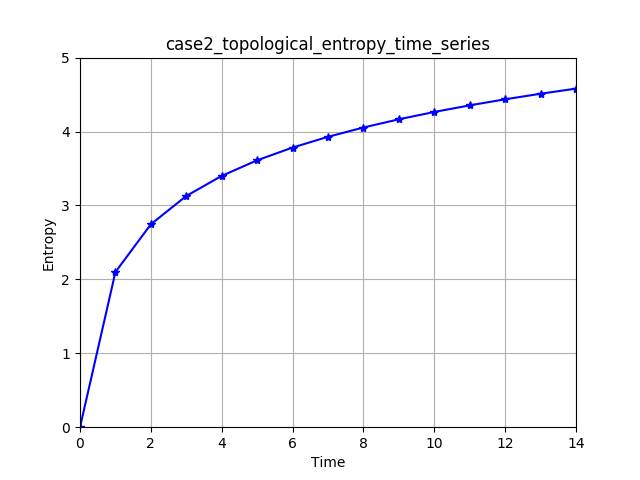
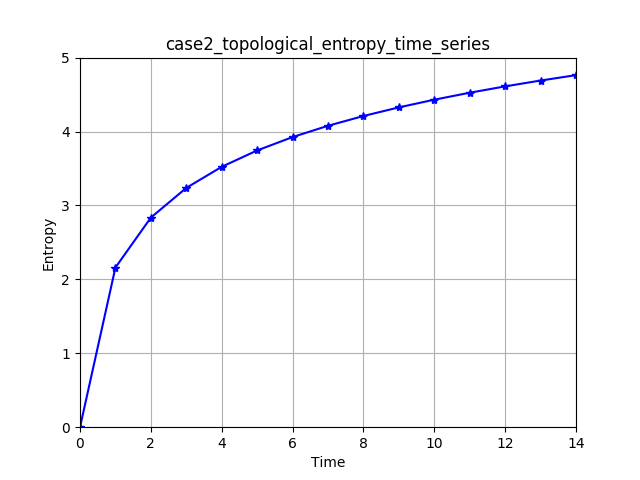
Initial build-out of Case 3

Changed region(s): [[0.2188, 0.1562, 0.9062, 0.5], [0.1562, 0.5, 0.2188, 0.6875], [0.125, 0.7188, 0.1562, 0.8125]]

diff --git a/networks/network_generator.py b/networks/network_generator.py
@@ -17,6 +17,7 @@ pylab.ion()
 '''
                                     TO DO
     - calculate value entropy
+    - determine how to track entropy towards target over time
     - fix "visualize_network_growth" (not pressing right now)
     - build out case 1
     - figure out how to represent binary data_status as outcomes for dit for mutual information, etc.
@@ -63,7 +64,7 @@ class Knowledge_Network(object):
         }
         return out_dict
 
-    def calculate_pagerank(self, alpha = 1.0):
+    def calculate_pagerank(self, alpha = 0.9):
         pagerank = nx.pagerank(self.network, alpha = alpha)
         return pagerank
 
@@ -135,6 +136,11 @@ class Knowledge_Network(object):
         self.get_network(**kwargs)
         plt.savefig('../figures\\{}.png'.format(filename))
 
+    def grow(self):
+        raise NotImplementedError
+
+    def run(self):
+        raise NotImplementedError
 
 class Case_1(Knowledge_Network):
     # This case computes the averages for each varaible, then multiplies them
@@ -142,6 +148,18 @@ class Case_1(Knowledge_Network):
 
     def __init__(self, **kwargs):
         Knowledge_Network.__init__(self, **kwargs)
+
+    def grow(self):
+        pass
+
+    def calculate_non_target_values(self):
+        pass
+
+    def calculate_target_node(self):
+        pass
+
+    def run(self):
+        pass
 
 
 class Case_2(Knowledge_Network):
@@ -182,7 +200,6 @@ class Case_2(Knowledge_Network):
                 val = val*new_val
             self.network.node[n]['val'] = val
             self.network.node[n]['data_status'] = self.calculate_data_status(n)
-            #print self.network.node[n]
 
     def calculate_target_node(self):
         # Calculate the target node (average volume) given the nodes it is connected to in the
@@ -196,9 +213,8 @@ class Case_2(Knowledge_Network):
         val = status_val*val/float(len(pred))
         self.network.node[self.target_node]['val'] = val
         self.network.node[self.target_node]['data_status'] = self.calculate_data_status(self.target_node)
-        #print self.network.node[self.target_node]
 
-    def run(self, T = 14, **kwargs):
+    def run(self, T = 14):
         # Runs the case forwards (building the knowledge network)
         self.build_entropy_time_series(self.topological_entropy_time_series, self.calculate_topological_entropy())
         self.build_entropy_time_series(self.simple_entropy_time_series, self.calculate_simple_entropy())
@@ -214,23 +230,54 @@ class Case_3(Knowledge_Network):
     # This case only imports the volumes associated with each ship, without
     # the associated variable values.
 
-    def __init__(self, **kwargs):
+    def __init__(self, data = {}, **kwargs):
         Knowledge_Network.__init__(self, **kwargs)
+        self.data = data
 
+    def grow(self):
+        # Add the volume node, and associated data, and connect to the target
+        # node (average volume).
+        new_node_label = max(self.network.nodes()) + 1
+        self.network.add_node(new_node_label, **self.add_attributes('V'+str(self.time_step), value = self.data[self.time_step]['V']))
+        self.network.add_edge(new_node_label, 0)
+
+    def calculate_target_node(self):
+        # Calculate the target node (average volume) given the nodes it is connected to in the
+        # knowledge network using their values and data statuses
+        pred = list(self.network.predecessors(self.target_node)) # Find the connected nodes to the target node
+        val = 0.0
+        status_val = 1.0
+        for n in pred:
+            val += self.network.node[n]['val']
+            status_val = status_val*self.network.node[n]['data_status']
+        val = status_val*val/float(len(pred))
+        self.network.node[self.target_node]['val'] = val
+        self.network.node[self.target_node]['data_status'] = self.calculate_data_status(self.target_node)
+
+    def run(self, T=14):
+        # Runs the case forwards (building the knowledge network)
+        self.build_entropy_time_series(self.topological_entropy_time_series, self.calculate_topological_entropy())
+        self.build_entropy_time_series(self.simple_entropy_time_series, self.calculate_simple_entropy())
+        for i in range(1,T+1):
+            self.time_step+=1
+            self.grow()
+            self.calculate_target_node()
+            self.build_entropy_time_series(self.topological_entropy_time_series, self.calculate_topological_entropy())
+            self.build_entropy_time_series(self.simple_entropy_time_series, self.calculate_simple_entropy())
 
 
 
 ###############################################################################
 def main():
 
-    save_images = False # should the images be saved?
+    save_images = True # should the images be saved?
 
     # Import the data
-    data = Case_Data('../data_sources\\case_data.csv')
+    raw_data = Case_Data('../data_sources\\case_data.csv')
 
     ##################### CASE 2 #######################
     # Initialize Case 2
-    case2 = Case_2(data = data)
+    case2 = Case_2(data = raw_data)
 
     # Run Case 2 forwards
     case2.run(T = 14)
@@ -273,6 +320,54 @@ def main():
             arrowsize = 10
         )
 
+    ############################ CASE 3 ###############################
+    # Initialize Case 3
+    case3_data = raw_data.calc_vols()
+
+    case3 = Case_3(data = case3_data)
+
+
+    # Run Case 2 forwards
+    case3.run(T = 14)
+    #print case3.network.nodes(data=True)
+
+    if save_images:
+        # Plot time series and save file in figures directory
+        case3.save_entropy_time_series_plot(
+            case3.topological_entropy_time_series,
+            filename ='case3_topological_entropy_time_series',
+            title = 'case3_topological_entropy_time_series',
+            x_min = 0,
+            x_max = 14,
+            y_min = 0,
+            y_max = 5,
+            grid = True
+        )
+
+        case3.save_entropy_time_series_plot(
+            case3.simple_entropy_time_series,
+            filename ='case3_simple_entropy_time_series',
+            title = 'case3_simple_entropy_time_series',
+            x_min = 0,
+            x_max = 14,
+            y_min = 0,
+            y_max = 5,
+            grid = True
+        )
+
+        # Plot final network layout
+        case3.save_final_network_plot(
+            filename = "case3_final_network",
+            prog = 'twopi',
+            with_labels = True,
+            font_weight = 'normal',
+            font_size = 10,
+            node_size = 120,
+            node_color = 'blue',
+            alpha = 0.6,
+            arrowstyle = '->',
+            arrowsize = 10
+        )
 
 
 if __name__ == '__main__':

diff --git a/data_sources/data_interpreter.py b/data_sources/data_interpreter.py
@@ -18,11 +18,11 @@ class Case_Data(object):
                 if line_count == 0:
                     line_count += 1
                 data[line_count] = {
-                "Ship": str(row["Oceanograpic Ships"]),
-                "L": float(row["L"]),
-                "B": float(row["B"]),
-                "T": float(row["T"]),
-                "Cb": float(row["Cb"])
+                    "Ship": str(row["Oceanograpic Ships"]),
+                    "L": float(row["L"]),
+                    "B": float(row["B"]),
+                    "T": float(row["T"]),
+                    "Cb": float(row["Cb"])
                 }
                 line_count += 1
             return data
@@ -30,7 +30,9 @@ class Case_Data(object):
     def calc_vols(self):
         vol_dict = {}
         for k, v in self.data.items():
-            vol_dict[k] = v['L']*v['B']*v['T']*v['Cb']
+            vol_dict[k] = {
+                "V": float(v['L']*v['B']*v['T']*v['Cb'])
+            }
         return vol_dict
 
     def calc_avg_vol_from_vols(self):
